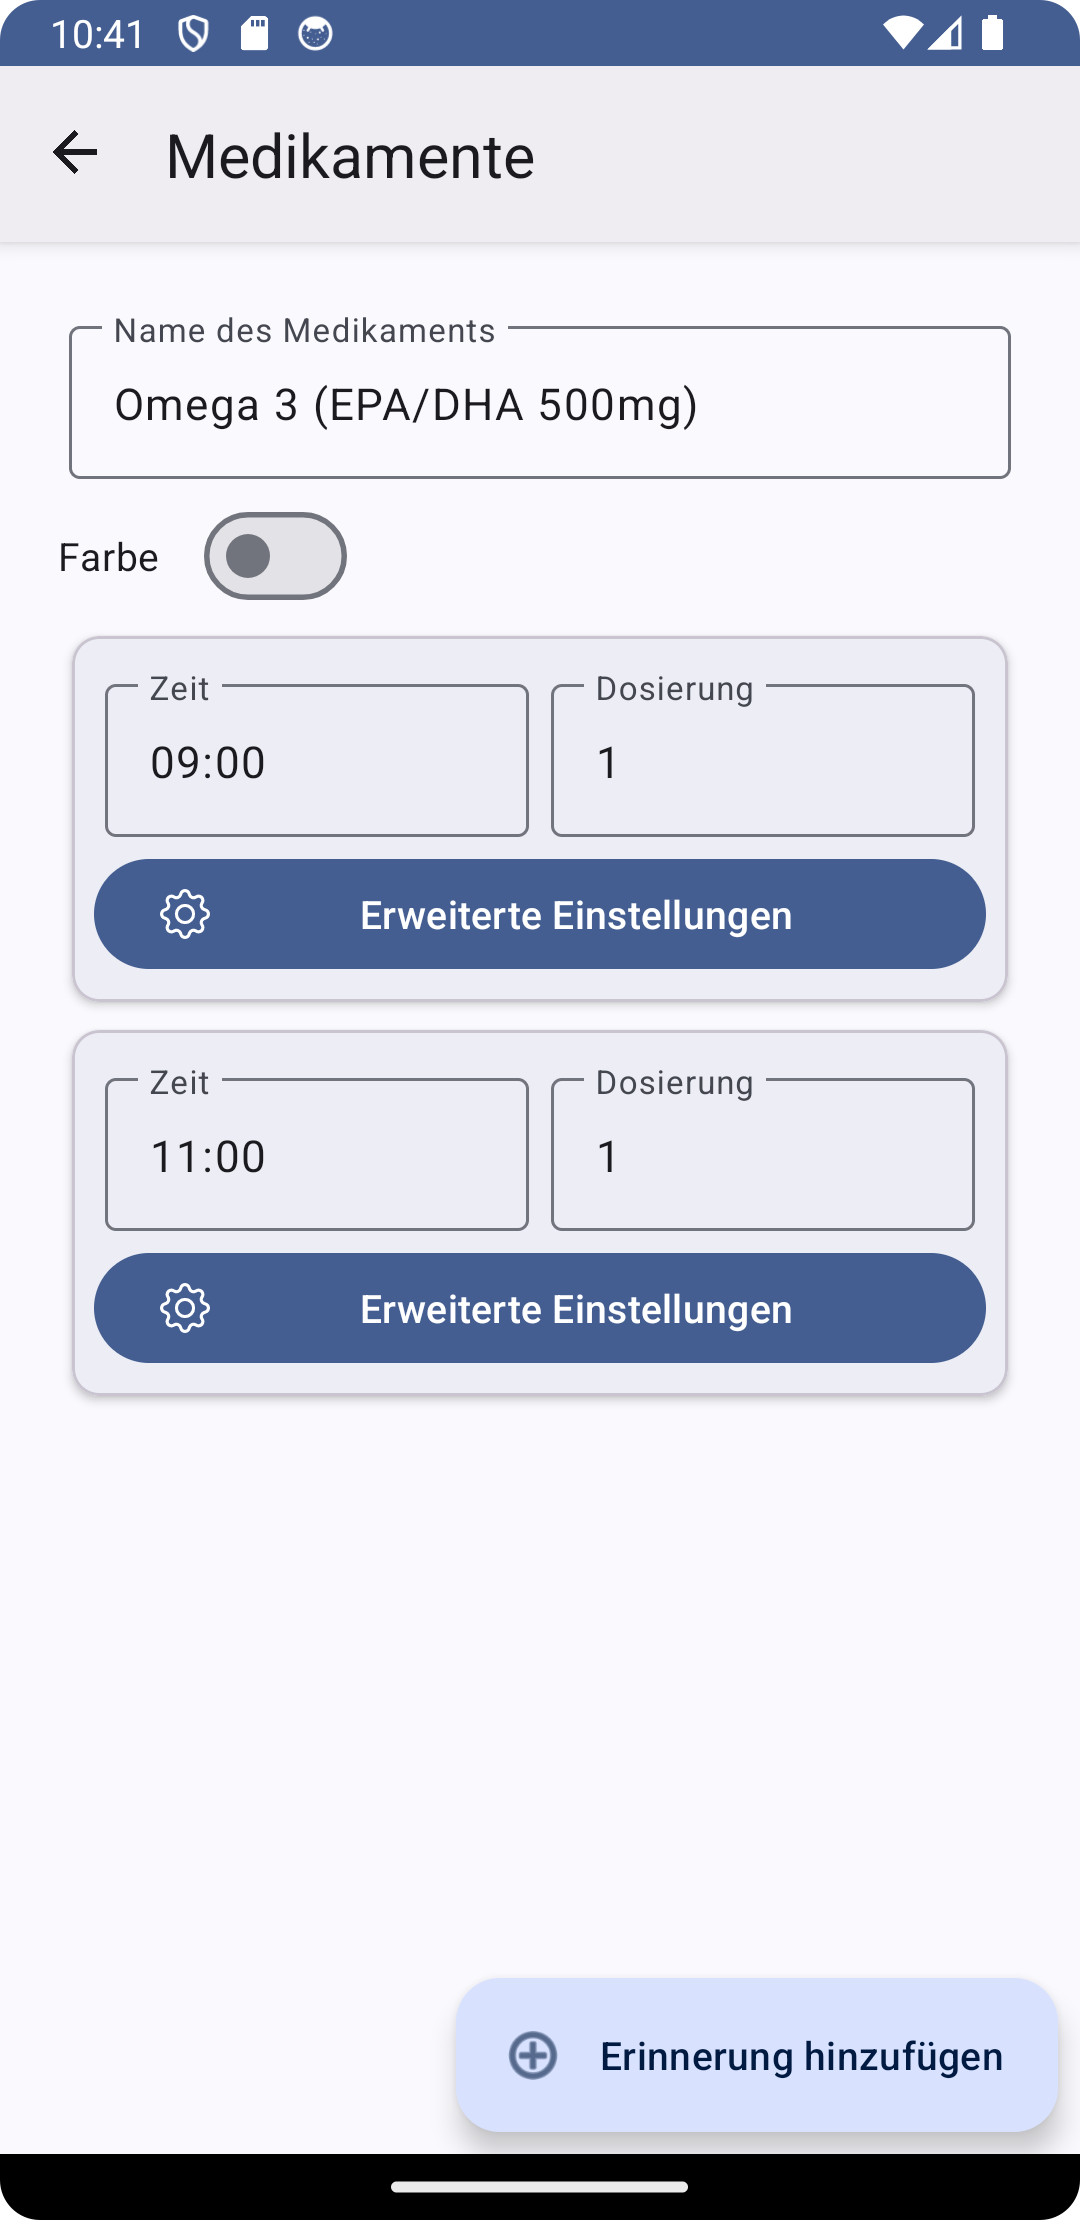
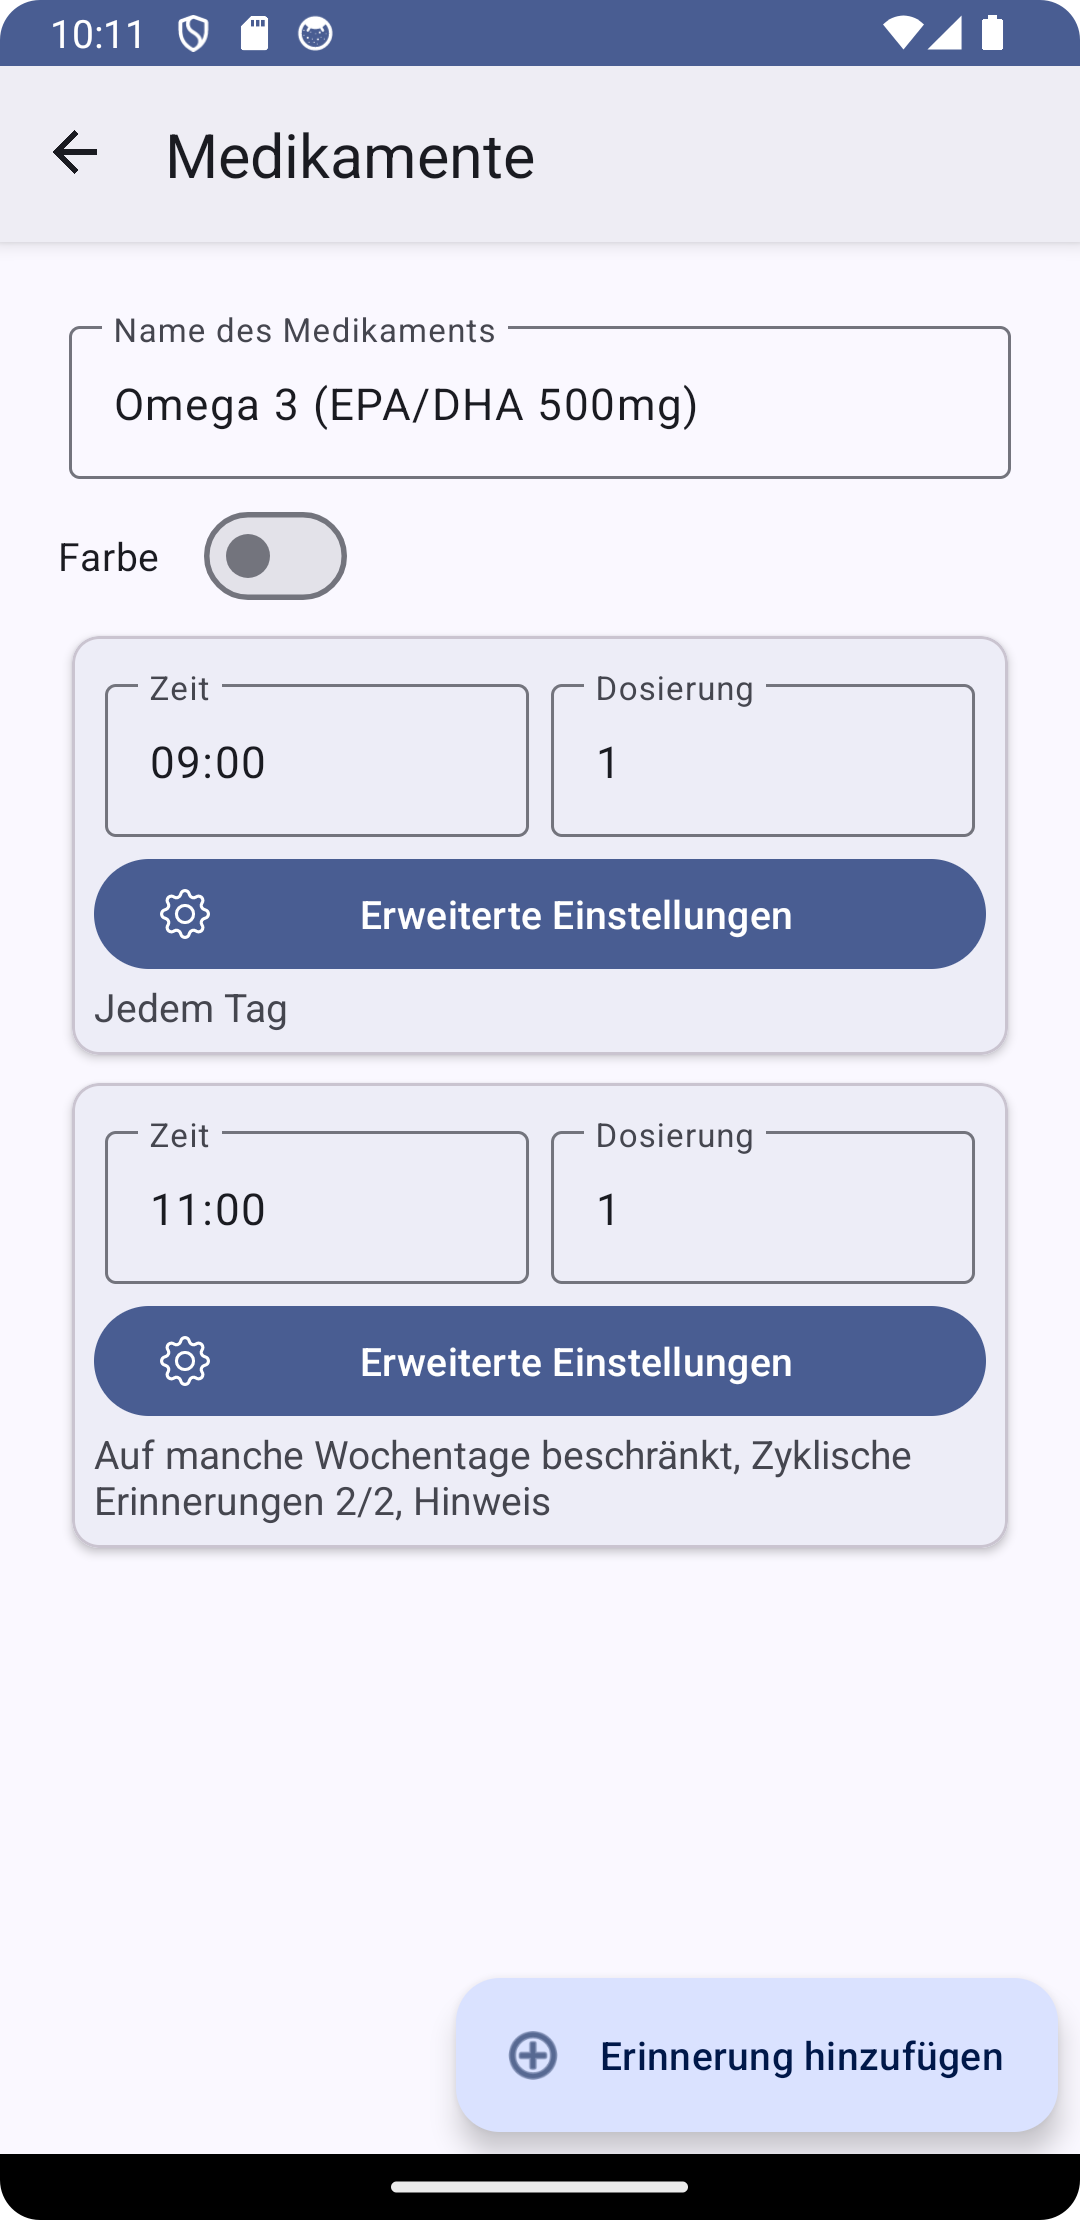
Advanced settings summary (#89)
* Build script cleanup

* Added code to fix Android Studio linter

* Added summary of advanced settings

* Bumped version to v1.7.2

* Updated screenshots

Changed region(s): [[0.0611, 0.4351, 0.9472, 0.7149], [0.0917, 0.0, 0.1222, 0.0311]]

diff --git a/app/src/main/java/com/futsch1/medtimer/medicine/ReminderViewHolder.java b/app/src/main/java/com/futsch1/medtimer/medicine/ReminderViewHolder.java
@@ -10,6 +10,7 @@ import android.view.View;
 import android.view.ViewGroup;
 import android.widget.EditText;
 import android.widget.PopupMenu;
+import android.widget.TextView;
 
 import androidx.fragment.app.FragmentActivity;
 import androidx.navigation.NavController;
@@ -22,21 +23,25 @@ import com.futsch1.medtimer.database.Reminder;
 import com.futsch1.medtimer.helpers.TimeHelper;
 import com.google.android.material.button.MaterialButton;
 
+import java.util.LinkedList;
+import java.util.List;
+
 public class ReminderViewHolder extends RecyclerView.ViewHolder {
     private final EditText editTime;
     private final EditText editAmount;
     private final View holderItemView;
     private final MaterialButton advancedSettings;
     private final FragmentActivity fragmentActivity;
+    private final TextView advancedSettingsSummary;
 
     private Reminder reminder;
-
 
     private ReminderViewHolder(View itemView, FragmentActivity fragmentActivity) {
         super(itemView);
         editTime = itemView.findViewById(R.id.editReminderTime);
         editAmount = itemView.findViewById(R.id.editAmount);
         advancedSettings = itemView.findViewById(R.id.open_advanced_settings);
+        advancedSettingsSummary = itemView.findViewById(R.id.advancedSettingsSummary);
 
         this.holderItemView = itemView;
         this.fragmentActivity = fragmentActivity;
@@ -54,45 +59,78 @@ public class ReminderViewHolder extends RecyclerView.ViewHolder {
 
         editTime.setText(minutesToTime(reminder.timeInMinutes));
 
-        editTime.setOnFocusChangeListener((v, hasFocus) -> {
-            if (hasFocus) {
-                new TimeHelper.TimePickerWrapper(fragmentActivity).show(reminder.timeInMinutes / 60, reminder.timeInMinutes % 60, minutes -> {
-                    String selectedTime = minutesToTime(minutes);
-                    editTime.setText(selectedTime);
-                    reminder.timeInMinutes = minutes;
-                });
-            }
-        });
+        editTime.setOnFocusChangeListener((v, hasFocus) -> onFocusEditTime(reminder, hasFocus));
 
-        advancedSettings.setOnClickListener(v -> {
-            NavController navController = Navigation.findNavController(this.holderItemView);
-            EditMedicineFragmentDirections.ActionEditMedicineToAdvancedReminderSettings action =
-                    EditMedicineFragmentDirections.actionEditMedicineToAdvancedReminderSettings(
-                            reminder.reminderId,
-                            medicineName
-                    );
-            navController.navigate(action);
-        });
+        advancedSettings.setOnClickListener(v -> onClickAdvancedSettings(reminder, medicineName));
 
-        SharedPreferences sharedPref = PreferenceManager.getDefaultSharedPreferences(this.holderItemView.getContext());
-
-        holderItemView.setOnLongClickListener(v -> {
-            if (sharedPref.getString("delete_items", "0").equals("0")) {
-                return false;
-            }
-
-            PopupMenu popupMenu = new PopupMenu(editTime.getContext(), this.holderItemView);
-            popupMenu.getMenuInflater().inflate(R.menu.edit_delete_popup, popupMenu.getMenu());
-            popupMenu.getMenu().findItem(R.id.edit).setVisible(false);
-            popupMenu.getMenu().findItem(R.id.delete).setOnMenuItemClickListener(item -> {
-                deleteCallback.deleteItem(editTime.getContext(), getItemId(), getAdapterPosition());
-                return true;
-            });
-            popupMenu.show();
-            return true;
-        });
+        holderItemView.setOnLongClickListener(v -> onLongClick(deleteCallback));
 
         editAmount.setText(reminder.amount);
+        advancedSettingsSummary.setText(getAdvancedSettingsSummary(reminder));
+    }
+
+    private String getAdvancedSettingsSummary(Reminder reminder) {
+        List<String> strings = new LinkedList<>();
+
+        boolean weekdayLimited = !reminder.days.stream().allMatch(day -> day == Boolean.TRUE);
+        boolean cyclic = reminder.pauseDays > 0;
+        if (weekdayLimited) {
+            strings.add(holderItemView.getContext().getString(R.string.weekday_limited));
+        }
+        if (cyclic) {
+            String builder = holderItemView.getContext().getString(R.string.cycle_reminders) +
+                    " " +
+                    reminder.consecutiveDays +
+                    "/" +
+                    reminder.pauseDays;
+            strings.add(builder);
+        }
+        if (!weekdayLimited && !cyclic){
+            strings.add(holderItemView.getContext().getString(R.string.every_day));
+        }
+        if (!reminder.instructions.isEmpty()) {
+            strings.add(holderItemView.getContext().getString(R.string.instructions));
+        }
+
+        return String.join(", ", strings);
+    }
+
+    private void onFocusEditTime(Reminder reminder, boolean hasFocus) {
+        if (hasFocus) {
+            new TimeHelper.TimePickerWrapper(fragmentActivity).show(reminder.timeInMinutes / 60, reminder.timeInMinutes % 60, minutes -> {
+                String selectedTime = minutesToTime(minutes);
+                editTime.setText(selectedTime);
+                reminder.timeInMinutes = minutes;
+            });
+        }
+    }
+
+    private void onClickAdvancedSettings(Reminder reminder, String medicineName) {
+        NavController navController = Navigation.findNavController(this.holderItemView);
+        EditMedicineFragmentDirections.ActionEditMedicineToAdvancedReminderSettings action =
+                EditMedicineFragmentDirections.actionEditMedicineToAdvancedReminderSettings(
+                        reminder.reminderId,
+                        medicineName
+                );
+        navController.navigate(action);
+    }
+
+    private boolean onLongClick(DeleteCallback deleteCallback) {
+        SharedPreferences sharedPref = PreferenceManager.getDefaultSharedPreferences(this.holderItemView.getContext());
+
+        if (sharedPref.getString("delete_items", "0").equals("0")) {
+            return false;
+        }
+
+        PopupMenu popupMenu = new PopupMenu(editTime.getContext(), this.holderItemView);
+        popupMenu.getMenuInflater().inflate(R.menu.edit_delete_popup, popupMenu.getMenu());
+        popupMenu.getMenu().findItem(R.id.edit).setVisible(false);
+        popupMenu.getMenu().findItem(R.id.delete).setOnMenuItemClickListener(item -> {
+            deleteCallback.deleteItem(editTime.getContext(), getItemId(), getAdapterPosition());
+            return true;
+        });
+        popupMenu.show();
+        return true;
     }
 
 
